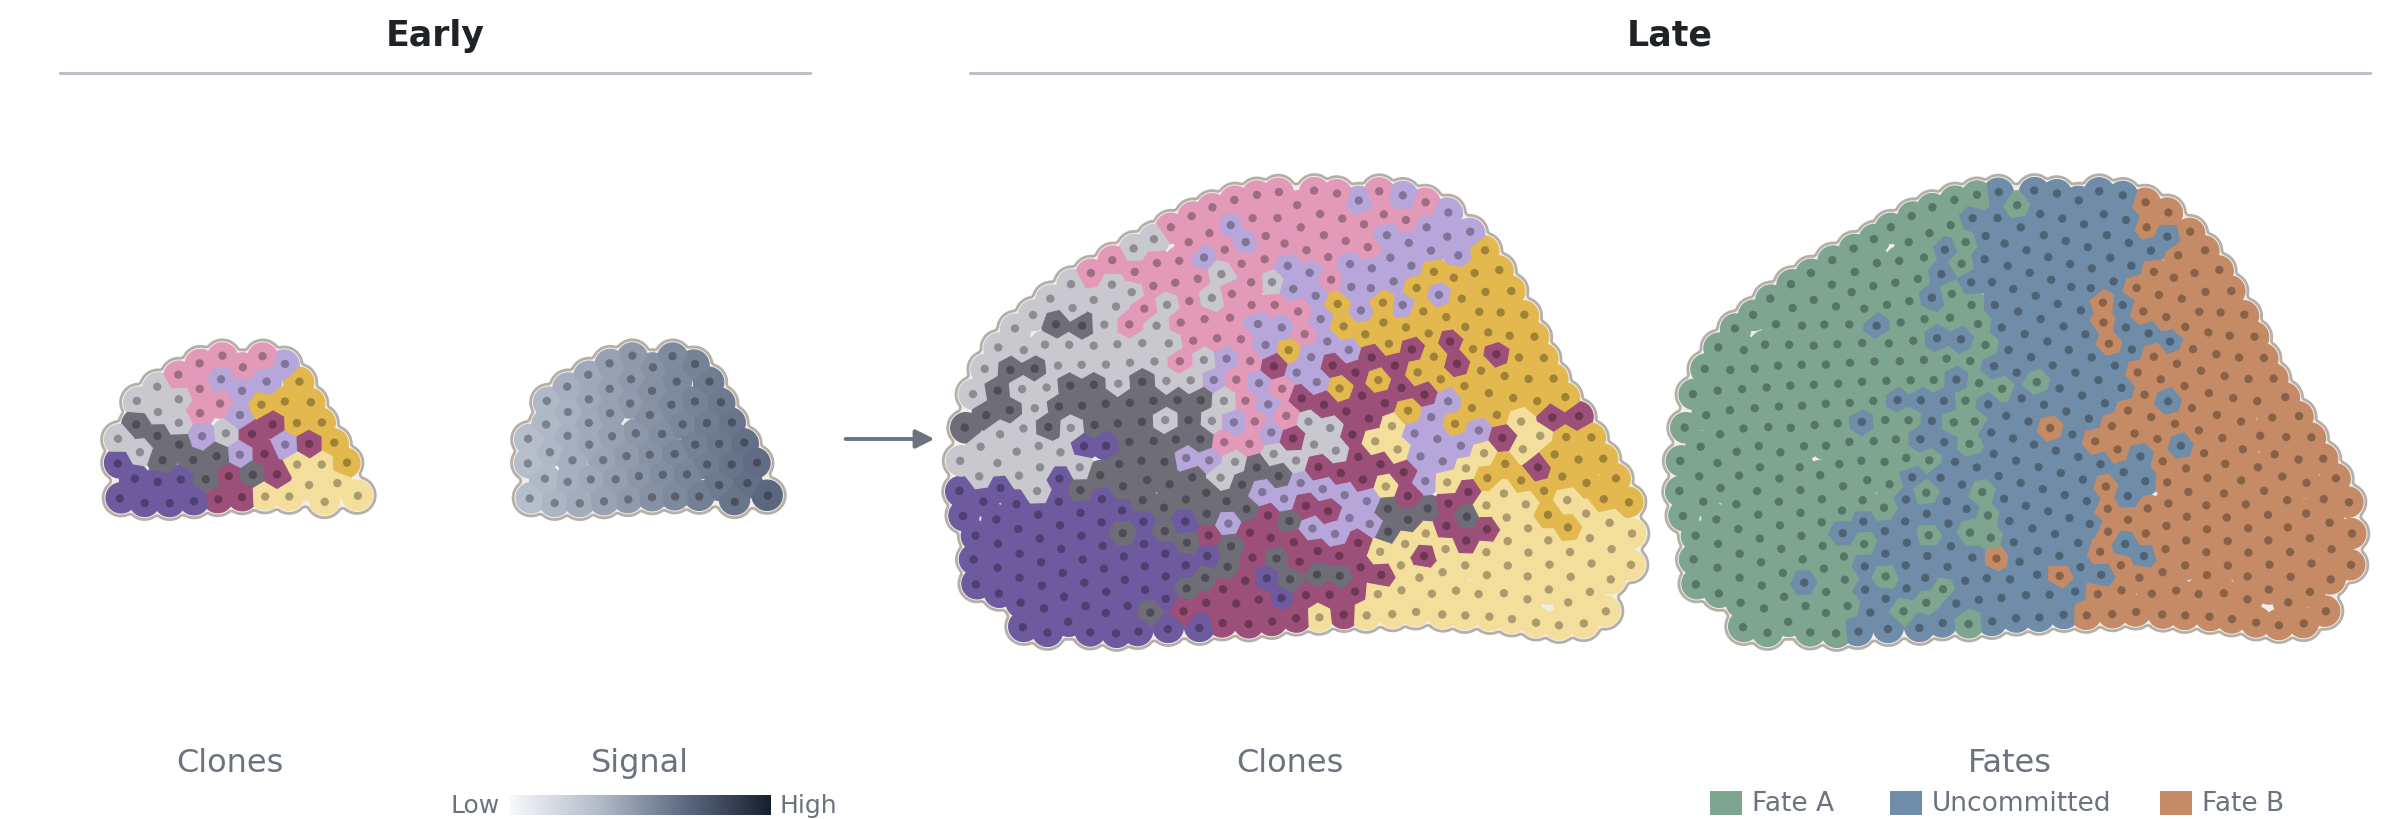
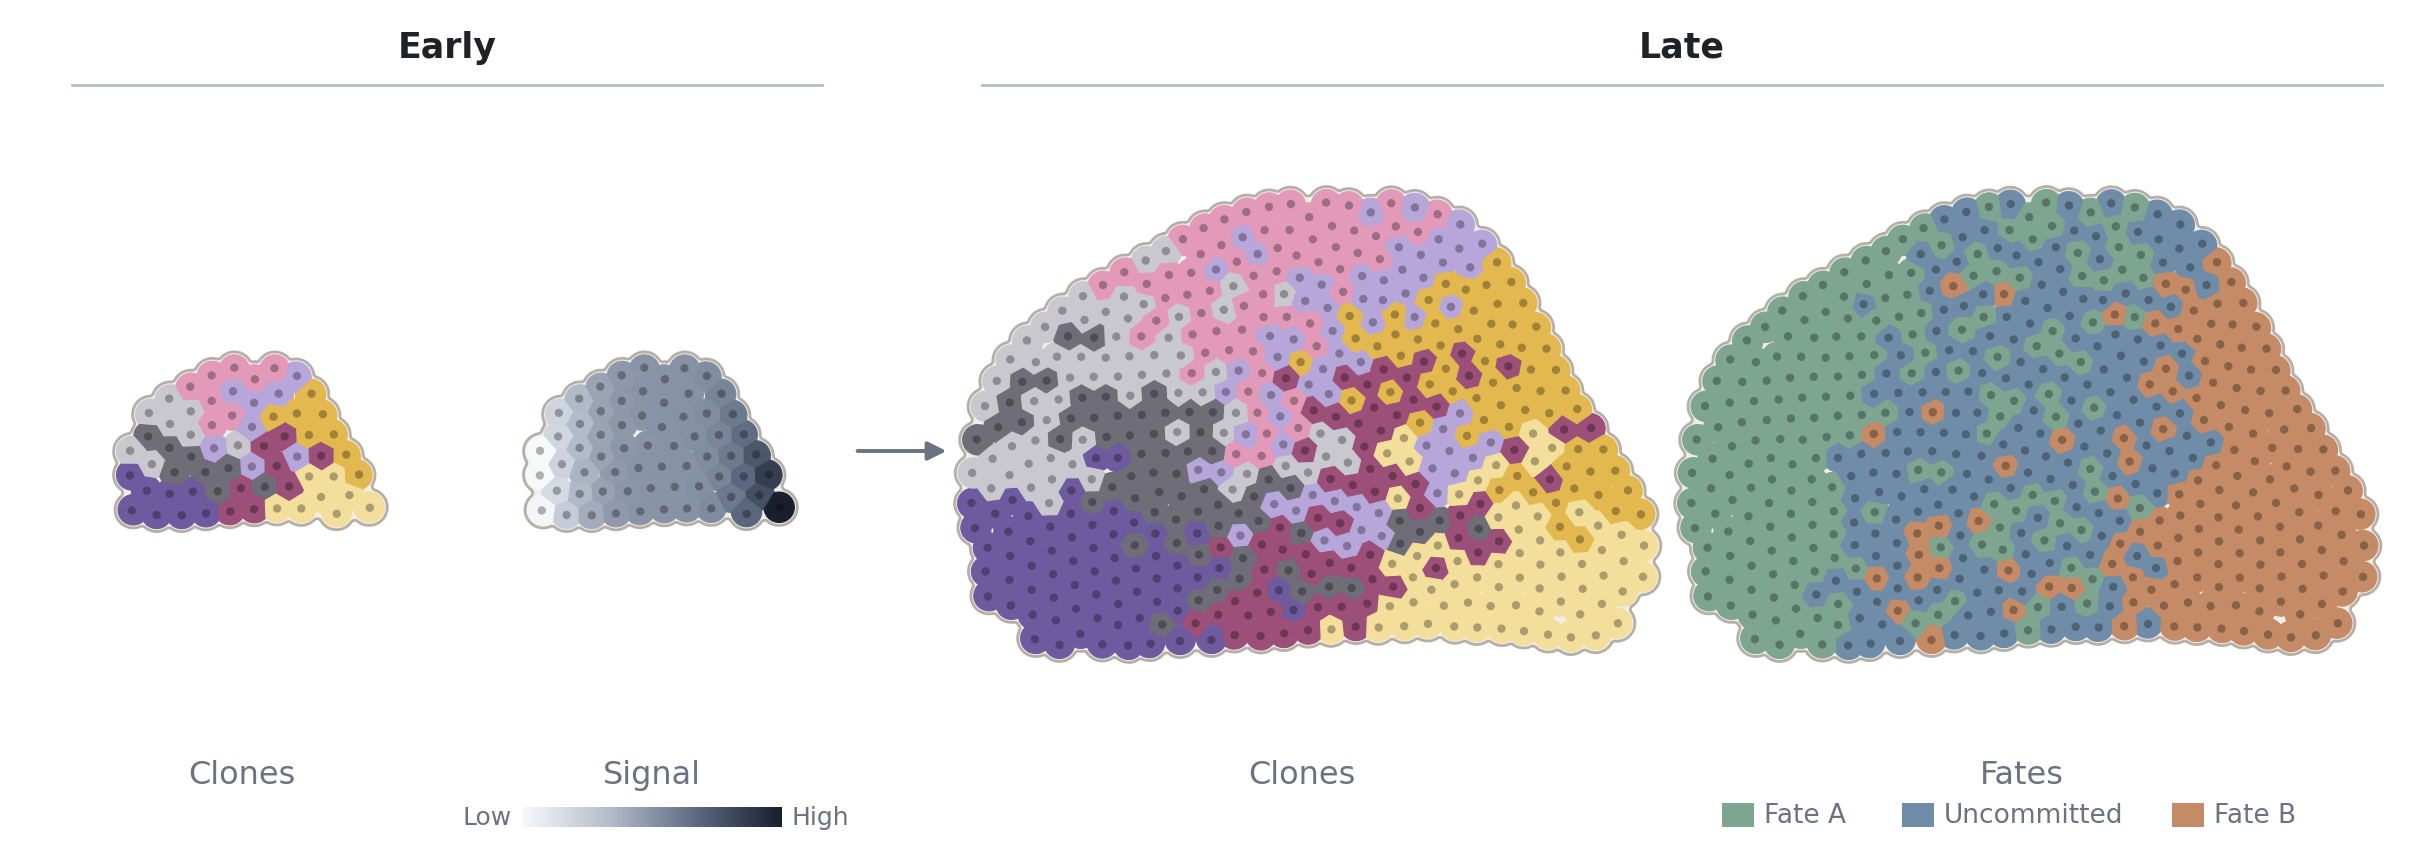
Figures cropped to equal width; numbered badges; plateau signal; four nested cell states

diff --git a/bin/make_research_art.py b/bin/make_research_art.py
@@ -83,8 +83,15 @@ def canvas():
 def save(fig, name):
     if name == "fate.png" and os.environ.get("FATE_OUT"):
         name = os.environ["FATE_OUT"]
-    fig.savefig(os.path.join(OUT, name), dpi=DPI, facecolor="white")
+    # cropped to the drawn content with one fixed margin, so every figure spans the page width alike
+    fig.savefig(os.path.join(OUT, name), dpi=DPI, facecolor="white", bbox_inches="tight", pad_inches=0.06)
     plt.close(fig)
+
+
+def badge(ax, x, y, n, r=0.13):
+    """A small numbered disc, the same for a sampled cell and its row of the sequenced records."""
+    ax.add_patch(matplotlib.patches.Circle((x, y), r, fc="#EEF0F3", ec=GREY, lw=0.8, zorder=6))
+    ax.text(x, y, str(n), fontsize=9, color=INK, ha="center", va="center", fontweight="bold", zorder=7)
 
 
 def text(ax, x, y, s, **kw):
@@ -176,7 +183,7 @@ def grow(name, sites, new, seed):
 
 grow("r", [None] * NSITE, None, 1)
 for i, t in enumerate(TIPS):
-    text(ax, TIPX[t], TIPY - 0.42, str(i + 1), fontsize=10, color=MUTED)
+    badge(ax, TIPX[t], TIPY - 0.45, i + 1)
 ax.add_patch(FancyArrowPatch((1.7, 3.4), (1.7, 0.35), arrowstyle="-|>", mutation_scale=12, color=GREY, lw=1.2))
 text(ax, 1.52, 1.9, "Time", fontsize=10.5, rotation=90)
 # the tree's key sits with the tree, in the space beside the root
@@ -196,7 +203,7 @@ text(ax, 8.35, 2.13, "Sequence", fontsize=10.5, color=INK)
 MX, MY, cw, ch = 9.15, 2.95, 0.3, 0.29
 for i, t in enumerate(TIPS):
     y = MY - i * (ch + 0.06)
-    text(ax, MX - 0.17, y + ch / 2, str(i + 1), fontsize=10, color=MUTED)
+    badge(ax, MX - 0.22, y + ch / 2, i + 1)
     for s in range(NSITE):
         c = RECORD[t][s] if RECORD[t][s] is not None else UNEDITED
         if rng.random() < 0.2:
@@ -302,10 +309,14 @@ XMIN, XMAX = pos[:, 0].min(), pos[:, 0].max()
 
 
 def signal_of(p):
-    return np.clip((p[:, 0] - XMIN) / (XMAX - XMIN), 0, 1)
+    """Position along the tissue mapped to signal: it changes fast near both ends and hardly at all
+    through the middle, where cells sit on a plateau."""
+    u = np.clip((p[:, 0] - p[:, 0].min()) / np.ptp(p[:, 0]), 0, 1)       # the gradient spans the tissue it is in
+    v = 2 * u - 1
+    return 0.5 + 0.5 * np.sign(v) * np.abs(v) ** 3
 
 
-fate = np.digitize(signal_of(pos) + bias + rs.normal(0, 0.05, len(pos)), [0.38, 0.64])
+fate = np.digitize(signal_of(pos) + 0.5 * bias + rs.normal(0, 0.025, len(pos)), [0.465, 0.535])   # the plateau stays uncommitted
 
 CLONE_COLS = CLONE_SET
 # low signal, middle, high signal: the middle band stays uncommitted (blue), flanked by two fates
@@ -505,8 +516,9 @@ header(ax, 1.95, 6.65, H3 - 0.18, "Regulatory elements")
 
 # ---------------- right: a stack of embedding planes, one cluster per cell state ----------------
 STATES = [("State %d" % (j + 1), IDENT_M[j], ca, cb) for j, (ca, cb) in
-          enumerate(((0.13, 0.5), (0.38, 0.28), (0.38, 0.72), (0.72, 0.25), (0.78, 0.72)))]
-MISSING = {"zebrafish": {2, 4}, "mouse": {4}, "macaque": {3}, "human": set()}
+          enumerate(((0.13, 0.5), (0.4, 0.3), (0.62, 0.72), (0.85, 0.35)))]
+# the missing states follow the phylogeny: the more distant the species, the more it lacks
+MISSING = {"zebrafish": {2, 3}, "mouse": {3}, "macaque": set(), "human": set()}
 CENT = []
 for k, (lab, key) in enumerate(SPECIES):
     draw_plane(Rk, k, key, 9 - k)
@@ -527,6 +539,6 @@ for ca, cb in zip(CENT, CENT[1:]):
     for j in range(len(STATES)):
         ax.plot([ca[j][0], cb[j][0]], [ca[j][1], cb[j][1]], color=MUTED, lw=0.9, ls=(0, (3, 2)), zorder=10)
 header(ax, 6.85, 11.9, H3 - 0.18, "Mapped cell states")
-fig.savefig(os.path.join(OUT, "transfer.png"), dpi=DPI, facecolor="white")
+fig.savefig(os.path.join(OUT, "transfer.png"), dpi=DPI, facecolor="white", bbox_inches="tight", pad_inches=0.06)
 plt.close(fig)
 print("wrote", sorted(os.listdir(OUT)))
